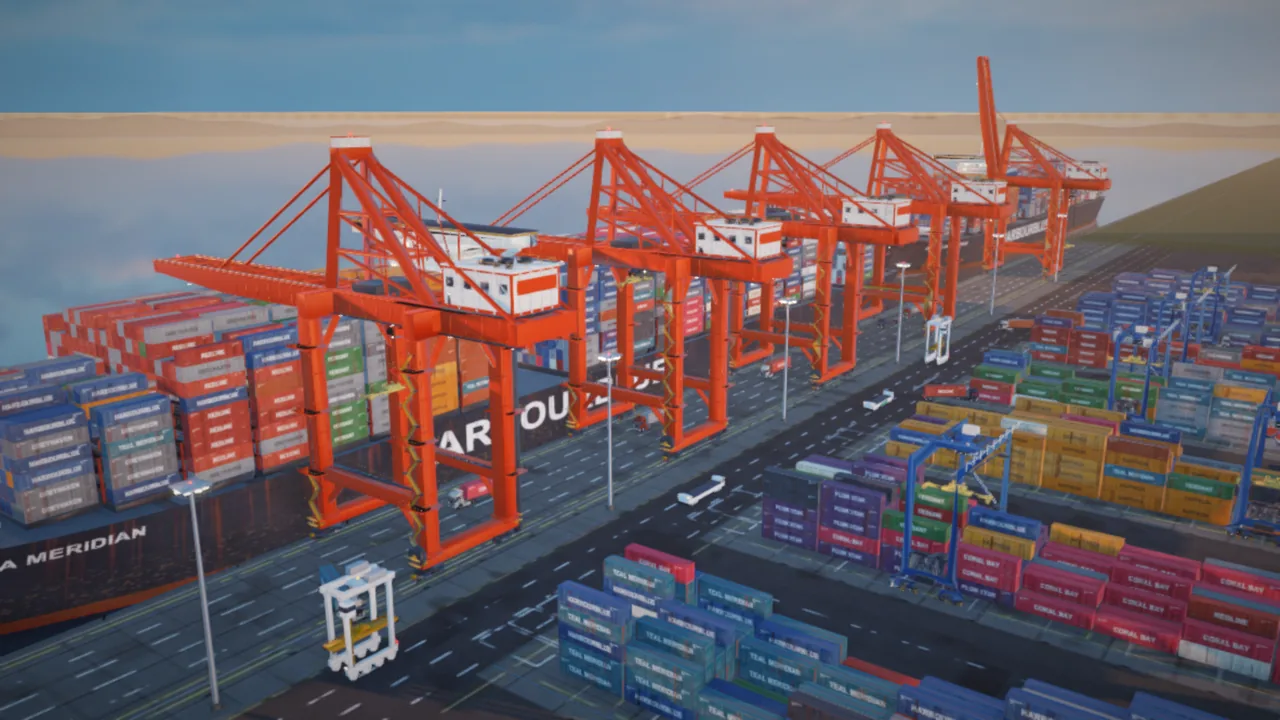
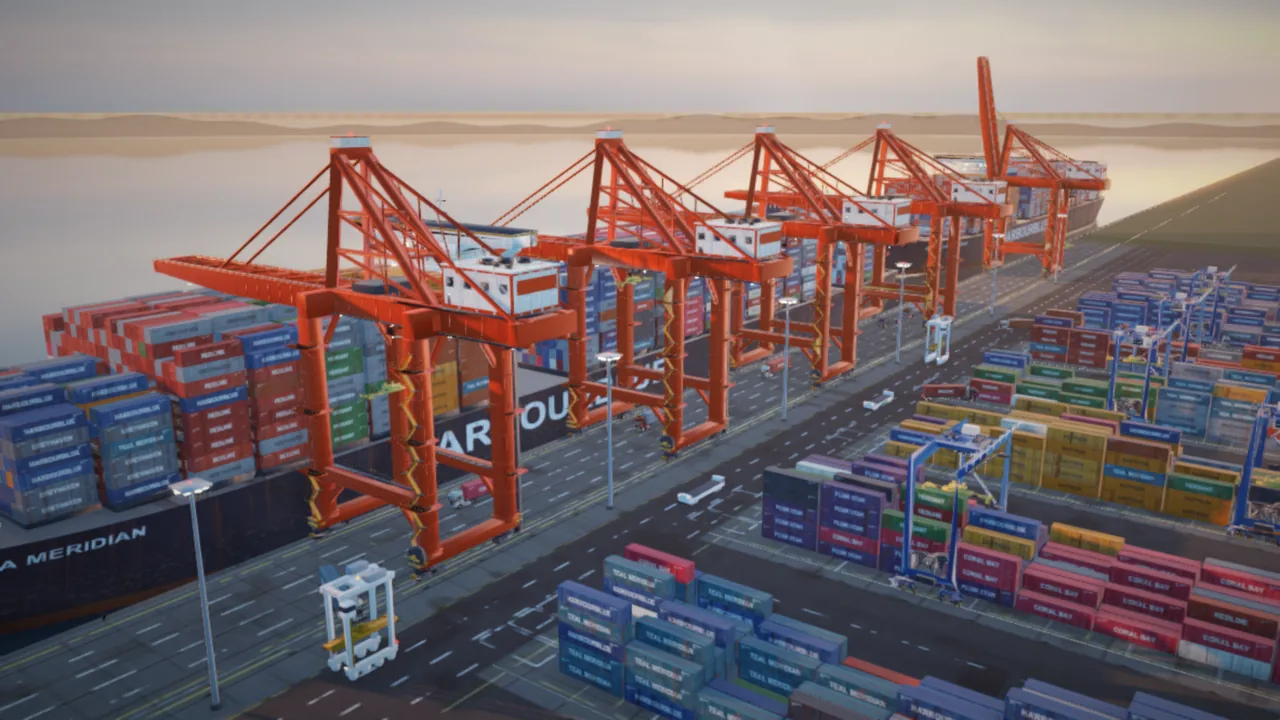
Drop the robot picture and keep the port sky of the published README image
The robot tile goes back to the published object studio picture, which the script no longer rebuilds.
Since #1371 every loaded HDRI is turned a quarter of its width, so the port's sky faced another way and
rendered blue; its rotation gains pi/2 (2.2 to 3.7708), as that change's note says, and the rebuilt
picture has the published warm haze again.

diff --git a/tests/render-readme-previews.test.js b/tests/render-readme-previews.test.js
@@ -1,12 +1,12 @@
 import assert from 'node:assert/strict';
 import { existsSync, readFileSync } from 'node:fs';
 import test from 'node:test';
-import { PREVIEWS, PREVIEW_STILL_WIDTH, needsCook, parseArguments, previewNamesInReadme, drawSize, renderSize, selectPreviews } from '../scripts/readme-previews-plan.mjs';
+import { KEPT_README_PICTURES, PREVIEWS, PREVIEW_STILL_WIDTH, needsCook, parseArguments, previewNamesInReadme, drawSize, renderSize, selectPreviews } from '../scripts/readme-previews-plan.mjs';
 
 const readme = readFileSync(new URL('../README.md', import.meta.url), 'utf8');
 
-test('the plan lists exactly the pictures README.md shows, each with a published file', () => {
-  assert.deepEqual([...PREVIEWS.map(preview => preview.name)].sort(), [...new Set(previewNamesInReadme(readme))].sort());
+test('the plan lists exactly the pictures README.md shows, less the kept ones, each with a published file', () => {
+  assert.deepEqual([...PREVIEWS.map(preview => preview.name), ...KEPT_README_PICTURES].sort(), [...new Set(previewNamesInReadme(readme))].sort());
   for (const preview of PREVIEWS) assert.ok(existsSync(new URL(`../public/previews/${preview.name}.webp`, import.meta.url)), `${preview.name}.webp is missing`);
 });
 
@@ -20,8 +20,8 @@ test('every recipe preview has its recipe file and every clip states its frame b
 });
 
 test('parseArguments reads names and options and rejects what it cannot use', () => {
-  const options = parseArguments(['robot', 'cook-monk', '--preview', 'out', '--pairs', 'pairs', '--skip-cook']);
-  assert.deepEqual(options.names, ['robot', 'cook-monk']);
+  const options = parseArguments(['showcase-port', 'cook-monk', '--preview', 'out', '--pairs', 'pairs', '--skip-cook']);
+  assert.deepEqual(options.names, ['showcase-port', 'cook-monk']);
   assert.equal(options.preview, 'out');
   assert.equal(options.pairs, 'pairs');
   assert.equal(options.skipCook, true);
@@ -32,7 +32,7 @@ test('parseArguments reads names and options and rejects what it cannot use', ()
 
 test('selectPreviews keeps table order and --skip-cook drops the Cook previews', () => {
   assert.equal(selectPreviews(parseArguments([])).length, PREVIEWS.length);
-  assert.deepEqual(selectPreviews(parseArguments(['robot', 'hero-classroom'])).map(preview => preview.name), ['hero-classroom', 'robot']);
+  assert.deepEqual(selectPreviews(parseArguments(['showcase-port', 'hero-classroom'])).map(preview => preview.name), ['hero-classroom', 'showcase-port']);
   const withoutCook = selectPreviews(parseArguments(['--skip-cook']));
   assert.deepEqual(PREVIEWS.filter(needsCook).map(preview => preview.name), ['hero-classroom', 'feature-cook-dof', 'cook-monk']);
   assert.ok(withoutCook.every(preview => !needsCook(preview)));
@@ -51,7 +51,7 @@ test('renderSize keeps the published size, and shrinks only wide stills in previ
 test('drawSize draws everything but the Cook stills at twice the published size', () => {
   const byName = name => PREVIEWS.find(preview => preview.name === name);
   assert.deepEqual(drawSize(byName('showcase-airport'), false), { width: 2560, height: 1440 });
-  assert.deepEqual(drawSize(byName('robot'), false), { width: 2560, height: 1440 });
+  assert.deepEqual(drawSize(byName('showcase-port'), false), { width: 2560, height: 1440 });
   assert.deepEqual(drawSize(byName('showcase-airport'), true), { width: PREVIEW_STILL_WIDTH, height: 360 });
   assert.deepEqual(drawSize(byName('hero-classroom'), false), { width: 1600, height: 900 });
   assert.deepEqual(drawSize(byName('feature-clockwork'), false), { width: 960, height: 540 });

diff --git a/docs/readme-previews.md b/docs/readme-previews.md
@@ -1,10 +1,10 @@
 # Rebuild the README pictures
 
-The eight pictures at the top of the README (`public/previews/*.webp`) come from one command, so they can be refreshed whenever the look changes.
+Seven of the eight pictures at the top of the README (`public/previews/*.webp`) come from one command, so they can be refreshed whenever the look changes.
 
 ```sh
-node scripts/render-readme-previews.mjs                       # all eight, written to public/previews
-node scripts/render-readme-previews.mjs robot cook-monk      # only these
+node scripts/render-readme-previews.mjs                       # all seven, written to public/previews
+node scripts/render-readme-previews.mjs showcase-port cook-monk   # only these
 node scripts/render-readme-previews.mjs --preview artifacts/readme-previews --pairs artifacts/readme-pairs
 ```
 
@@ -15,7 +15,6 @@ What each picture is built from (the table is `scripts/readme-previews-plan.mjs`
 | Picture | Source | Tool |
 |---|---|---|
 | `showcase-airport`, `showcase-port` | `public/showcase/<name>/scene.json` | `scripts/render-media.mjs` |
-| `robot` | RobotExpressive, a CC0 model downloaded into the cache folder (below) | `scripts/render-media.mjs` on a scene file the script writes |
 | `feature-clockwork` | the motion page | `scripts/render-media.mjs`, then FFmpeg to an animated WebP |
 | `feature-flicker-fixed` | `scripts/readme-previews/flicker-fixed.recipe.mjs` | MCP render job, then FFmpeg |
 | `feature-cook-dof` | `scripts/readme-previews/cook-dof.recipe.mjs` | MCP render job on Cook, then FFmpeg |
@@ -24,6 +23,7 @@ What each picture is built from (the table is `scripts/readme-previews-plan.mjs`
 - A rasterized still is drawn twice as wide and tall as it is published and shrunk with a Lanczos filter (`STILL_SUPERSAMPLE`). It measured sharper than drawing at the published size: on the airport still the Laplacian variance of the 1280 wide result went from 248 to 374, and the strongest edges from 121 to 144. The Cook stills are traced at their published size, with enough samples that the denoiser has little noise left to remove.
 - A clip keeps the frame count of the file it replaces and stays under that file's size: the encoder lowers the WebP quality until it fits, and stops with an error when even the lowest quality is too big.
 - The three Cook pictures need the Cook native addon (`npm run cook:build`, or `node node_modules/@codepawlhq/cook/fetch-addon.mjs` for a prebuilt one) and a GPU with Vulkan ray queries. `--skip-cook` leaves them out.
-- The robot is RobotExpressive by Tomás Laulhé (Quaternius), CC0 1.0. The two Blender demo scenes are downloaded on first use into `~/.cache/crucible-readme-previews` (change it with `--cache`), never into the repository, and converted with Blender 5.3 (`BLENDER=<path>`, or `blender` on the PATH). Classroom is by Christophe Seux (CC0); Lone Monk is by Carlo Bergonzini (CC-BY). The cameras are in the plan table: Classroom uses the Blender camera, Lone Monk the Blender camera moved 2 m forward.
+- The object studio picture (`wall-e`) is kept as published; the script does not rebuild it.
+- The two Blender demo scenes are downloaded on first use into `~/.cache/crucible-readme-previews` (change it with `--cache`), never into the repository, and converted with Blender 5.3 (`BLENDER=<path>`, or `blender` on the PATH). Classroom is by Christophe Seux (CC0); Lone Monk is by Carlo Bergonzini (CC-BY). The cameras are in the plan table: Classroom uses the Blender camera, Lone Monk the Blender camera moved 2 m forward.
 - The MCP render needs `npm run build` and `node scripts/build-mcp.mjs` first.
 - Run it as a light GPU job: `bash ~/.agents/tools/gpu-lock.sh node scripts/render-readme-previews.mjs ...`.

diff --git a/README.md b/README.md
@@ -51,7 +51,7 @@ Scenes built with Crucible open live in the browser on the [showcase](https://cr
   <a href="https://crucible.codepawl.com/showcase.html?scene=airport"><img src="https://crucible.codepawl.com/previews/showcase-airport.webp" alt="Airport ramp, rendered by Crucible" width="49%"></a>
   <a href="https://crucible.codepawl.com/showcase.html?scene=port"><img src="https://crucible.codepawl.com/previews/showcase-port.webp" alt="Container port, rendered by Crucible" width="49%"></a>
   <a href="https://crucible.codepawl.com/showcase.html"><img src="https://crucible.codepawl.com/previews/cook-monk.webp" alt="A monastery courtyard with a stone well, seen from a desk with an open book, path traced by Cook" width="49%"></a>
-  <a href="https://crucible.codepawl.com/showcase.html"><img src="https://crucible.codepawl.com/previews/robot.webp" alt="A yellow low-poly robot with round dark eyes, rendered by Crucible" width="49%"></a>
+  <a href="https://crucible.codepawl.com/object.html"><img src="https://crucible.codepawl.com/previews/wall-e.webp" alt="A robot model in the object studio, rendered by Crucible" width="49%"></a>
 </p>
 
 The pictures above are rebuilt from the current code with `node scripts/render-readme-previews.mjs` (add names to rebuild some, `--preview <folder>` for small test renders; [guide](docs/readme-previews.md)).
@@ -288,7 +288,6 @@ Company sponsors get their logo here from $100 a month.
 
 - [gl-matrix](https://github.com/toji/gl-matrix) supplies the matrix math.
 - The glTF addon has its own parser. The Draco, meshopt and KTX2 decoders are [three.js](https://threejs.org/) loaders that you pass in.
-- The robot picture uses RobotExpressive by Tomás Laulhé ([Quaternius](https://quaternius.com), CC0 1.0), as packed for three.js by Don McCurdy.
 - The textures and the HDRI on the site are CC0 scans from [Poly Haven](https://polyhaven.com) and [ambientCG](https://ambientcg.com). See [the texture credits](https://github.com/codepawl/crucible/blob/main/public/textures/CREDITS.md).
 - The Bistro renders use [Amazon Lumberyard Bistro](https://developer.nvidia.com/orca/amazon-lumberyard-bistro) (CC BY 4.0, from the NVIDIA ORCA library) under a CC0 [Poly Haven](https://polyhaven.com/a/kloofendal_48d_partly_cloudy_puresky) sky.
 - The showcase models and their sources are listed in each world's `scene.json` under `public/showcase/`.

diff --git a/docs/learn/introduction.md b/docs/learn/introduction.md
@@ -43,7 +43,7 @@ new ResizeObserver(() => {
 Each demo on this site is a Crucible scene. Open one to see what the engine does, then read its topic in these docs.
 
 ```cards
-Object studio | /object.html | A robot model with orbit controls, lighting looks and an exploded view. | /previews/robot.webp
+Object studio | /object.html | A robot model with orbit controls, lighting looks and an exploded view. | /previews/wall-e.webp
 Procedural modeling | /modeling.html | A lantern made from lathe, extrude and tube geometry. | /previews/modeling.webp
 Nature | /nature.html | Terrain, trees and grass with wind and a sun you can move. | /previews/grass.webp
 Assets | /assets.html | GLB models loaded, lit and animated. | /previews/assets.webp

diff --git a/docs/learn/resources.md b/docs/learn/resources.md
@@ -5,7 +5,7 @@
 Each demo is a Crucible scene with its source in the repository.
 
 ```cards
-Object studio | /object.html | Orbit, lighting looks, an exploded view and PNG export. | /previews/robot.webp
+Object studio | /object.html | Orbit, lighting looks, an exploded view and PNG export. | /previews/wall-e.webp
 Procedural modeling | /modeling.html | Lathe, extrude and tube geometry in one lantern. | /previews/modeling.webp
 Nature | /nature.html | Terrain, trees, grass, wind and a moving sun. | /previews/grass.webp
 Assets | /assets.html | GLB models with their animation. | /previews/assets.webp
